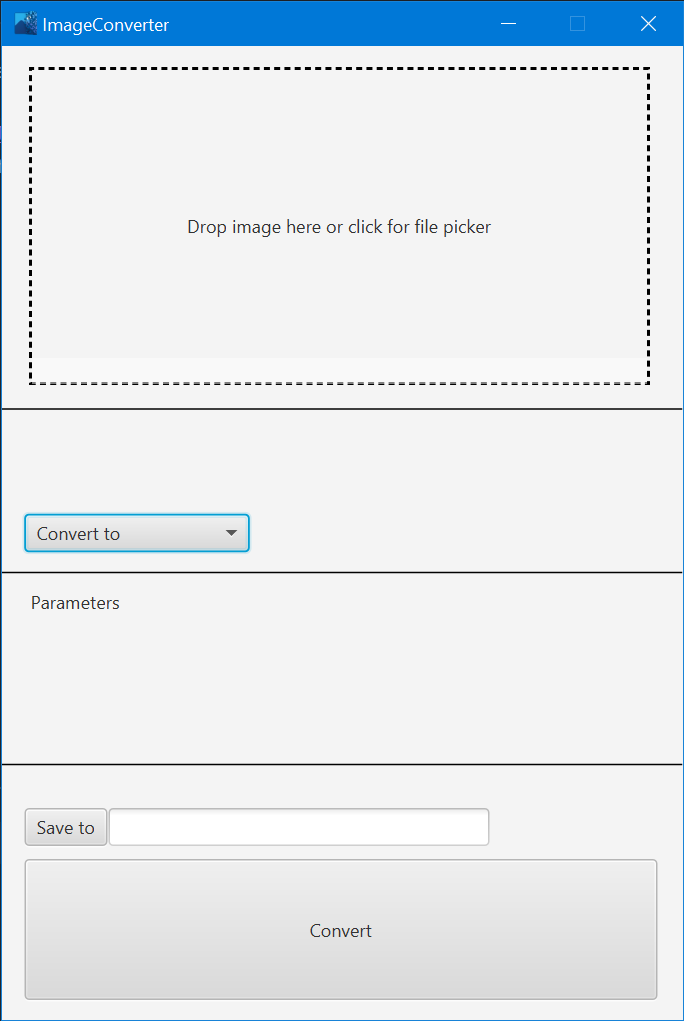
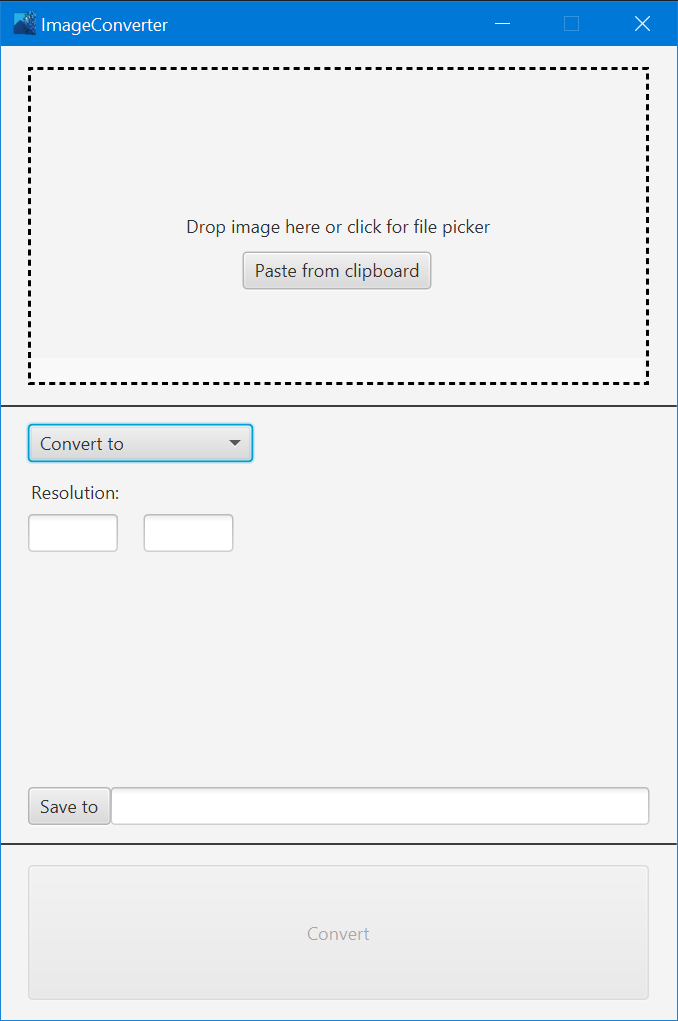
add threading and fix file output bug. also update readme

diff --git a/src/main/java/ImageConverter/imageHandler.java b/src/main/java/ImageConverter/imageHandler.java
@@ -53,11 +53,8 @@ public class imageHandler {
     public static void convert(String outputPath, String type, int height, int width) throws IOException, AWTException {
         // Get the writer
         Iterator<ImageWriter> writers = ImageIO.getImageWritersByFormatName(type);
-        if (!writers.hasNext()) {
-            throw new IllegalArgumentException("No writer for: " + type);
-        }
-
         BufferedImage sizedImage = resizeImage(image, width, height);
+        outputPath = outputPath+"."+type;
 
         ImageWriter writer = writers.next();
         try {
@@ -65,12 +62,8 @@ public class imageHandler {
                 writer.setOutput(output);
                 ImageWriteParam param = writer.getDefaultWriteParam();
 
-                // Optionally, control format specific settings of param (requires casting), or
-                // control generic write settings like sub sampling, source region, output type etc.
-
-
-                //  streamMetadata - an IIOMetadata object representing stream metadata, or null to use default values.
-                //  image - an IIOImage object containing an image, thumbnails, and metadata to be written.
+                // streamMetadata - an IIOMetadata object representing stream metadata, or null to use default values.
+                // sizedImage - an IIOImage object containing an image, thumbnails, and metadata to be written.
                 // param - an ImageWriteParam, or null to use a default ImageWriteParam.
 
                 writer.write(null, new IIOImage(sizedImage, null, null), param);

diff --git a/src/main/java/ImageConverter/mainController.java b/src/main/java/ImageConverter/mainController.java
@@ -136,11 +136,18 @@ public class mainController {
     /**
      * Called when the convert button is clicked. Collects output parameters from UI and sends them to imageHandler.
      */
-    public void convertClick() throws IOException, AWTException {
+    public void convertClick() throws AWTException {
         if (filetypeSelect.getSelectionModel().isEmpty() || outputPath.getText().isEmpty()) {
             trayMessage("Some parameters haven't been filled!");
         } else {
-            imageHandler.convert(outputPath.getText(), filetypeSelect.getValue(), Integer.parseInt(height.getText()), Integer.parseInt(width.getText()));
+            new Thread(() -> {
+                try {
+                    imageHandler.convert(outputPath.getText(), filetypeSelect.getValue(), Integer.parseInt(height.getText()), Integer.parseInt(width.getText()));
+                } catch (IOException | AWTException e) {
+                    e.printStackTrace();
+                }
+            }).start();
+            //imageHandler.convert(outputPath.getText(), filetypeSelect.getValue(), Integer.parseInt(height.getText()), Integer.parseInt(width.getText()));
         }
     }
 

diff --git a/README.md b/README.md
@@ -3,6 +3,6 @@ ImageConverter for java 14
 ![logo](readmeimages/icon.png)
 
 Uses JavaFX and [TwelveMonkeys](https://github.com/haraldk/TwelveMonkeys)
-Supports a bunch of formats and heaps of control.
+Supports a bunch of formats. Image can be imported via drag and drop, file select, and from the clipboard. Screen snips can be pasted right in as well as image copied from the internet.
 
 ![app image](readmeimages/app.png);
